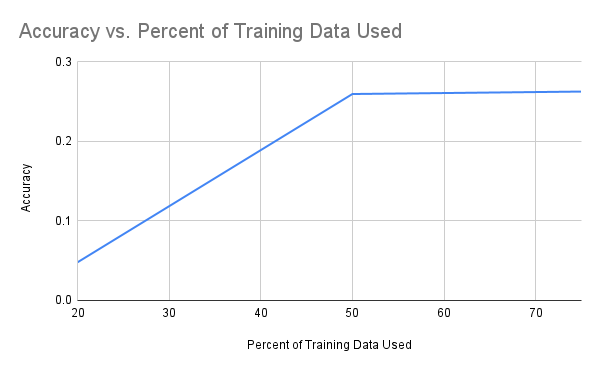
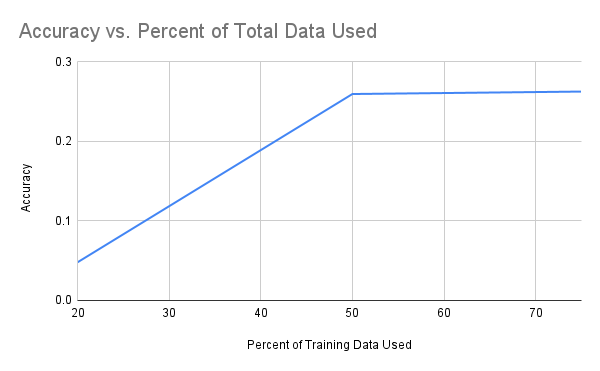
midterm

Changed region(s): [[0.42, 0.0593, 0.69, 0.1186]]

diff --git a/index.html b/index.html
@@ -28,8 +28,13 @@ layout: default
     grapes, and tomatoes, with various diseases such as black rot, common rust,
     and bacterial spot. It can be found
     <a href="https://www.tensorflow.org/datasets/catalog/plant_village">here</a
-    >.
+    >, and the below figure shows some example images from the dataset.
   </p>
+  <img
+    src="plantexamples.png"
+    alt="Examples of Images from Plant Village Dataset"
+    style="width: 700px; height: 500px"
+  />
   <h2>Problem Definition</h2>
   <p>
     The health of our crops is crucial for meeting our daily needs.
@@ -46,10 +51,19 @@ layout: default
     In order to preprocess our images, we utilized a grayscale method to create
     a grayscale version of the PlantVillage dataset. Opting for grayscale as our
     preprocessing technique allowed us to remove color bias from the model and
-    reduce computational complexity. For image classification, we employed a
-    decision tree model. We selected a decision tree for training as it is known
-    for its simplicity in computation compared to other models, yet remains
-    highly effective in hierarchically classifying images.
+    reduce computational complexity. Below is a figure displaying an example
+    image from the dataset in color and grayscaled.
+  </p>
+  <img
+    src="grayscaleimage.png"
+    alt="Example of Grayscaled Image"
+    style="width: 700px; height: 500px"
+  />
+  <p>
+    For image classification, we employed a decision tree model. We selected a
+    decision tree for training as it is known for its simplicity in computation
+    compared to other models, yet remains highly effective in hierarchically
+    classifying images.
   </p>
 
   <h2>Results and Discussion</h2>
@@ -66,31 +80,39 @@ layout: default
     style="width: 700px; height: 500px"
   />
   <p>
-    Click <a href="./dectree.txt">here</a> to see a figure demonstrating our
-    decision tree model as a tree.
+    The above graph displays how the accuracy of our decision tree model
+    improved with larger percents of the total data used. Unfortunately, as we
+    ran into out of RAM errors when using the full dataset, we were only able to
+    use 75% of the Plant Village dataset. However, we plan to fix these issues
+    so we can use all of our data when training the next two models for the
+    final project.
   </p>
   <h4>Quantitative Metrics</h4>
 
   <h5>Project Goals/Expected Results</h5>
-  <p> In this project, our goal is to develop an effective model to identify diseased 
-    and healthy plants. Our model will first take a leaf image of a plant conducting 
-    preprocessing to extract key features from the image such as identifying 
-    possible areas of lesions. We hope our model will have a classification accuracy 
-    above 90% detection for healthy vs unhealthy. This would indicate that our model 
-    can be trusted to give correct information, allowing more confident use when 
-    applied to the agricultural field. Some current models have achieved 96% 
-    accuracy such as the DBN [3]. Therefore, we’ve also set a similar more reasonable goal 
-    for our model given our resources. Likewise, we aim for precision and recall rates 
-    above 0.90 to indicate fewer false positives and negatives as well as resulting F1 
-    Score around 0.90. A high precision rate is critical in terms of the losses associated 
-    with false positives. If the model falsely classifies a crop as diseased, it could 
-    result in resources wasted on preventing the spread of disease or the extermination of 
-    healthy plants. A high recall rate is important for mitigating the risks of false 
-    negatives. If the model fails to classify a diseased crop, the disease would spread, 
-    killing fields of crops and resulting in significant economic loss for farms. 
-    The derived F1 Score is a concise representation of both false positives and negatives 
-    and an overall balance in precision and recall. </p>
-  
+  <p>
+    In this project, our goal is to develop an effective model to identify
+    diseased and healthy plants. Our model will first take a leaf image of a
+    plant conducting preprocessing to extract key features from the image such
+    as identifying possible areas of lesions. We hope our model will have a
+    classification accuracy above 90% detection for healthy vs unhealthy. This
+    would indicate that our model can be trusted to give correct information,
+    allowing more confident use when applied to the agricultural field. Some
+    current models have achieved 96% accuracy such as the DBN [3]. Therefore,
+    we’ve also set a similar more reasonable goal for our model given our
+    resources. Likewise, we aim for precision and recall rates above 0.90 to
+    indicate fewer false positives and negatives as well as resulting F1 Score
+    around 0.90. A high precision rate is critical in terms of the losses
+    associated with false positives. If the model falsely classifies a crop as
+    diseased, it could result in resources wasted on preventing the spread of
+    disease or the extermination of healthy plants. A high recall rate is
+    important for mitigating the risks of false negatives. If the model fails to
+    classify a diseased crop, the disease would spread, killing fields of crops
+    and resulting in significant economic loss for farms. The derived F1 Score
+    is a concise representation of both false positives and negatives and an
+    overall balance in precision and recall.
+  </p>
+
   <h5>Resulting Metrics</h5>
   <p>The metrics for our decision tree classifier were:</p>
   <ul>
@@ -99,7 +121,7 @@ layout: default
     <li><b>Recall:</b> 0.262174</li>
     <li><b>F1 Score:</b> 0.251980</li>
   </ul>
-  
+
   <h4>Analysis of Decision Tree</h4>
   <p>
     As seen in our metrics, though the decision tree classifier made significant
